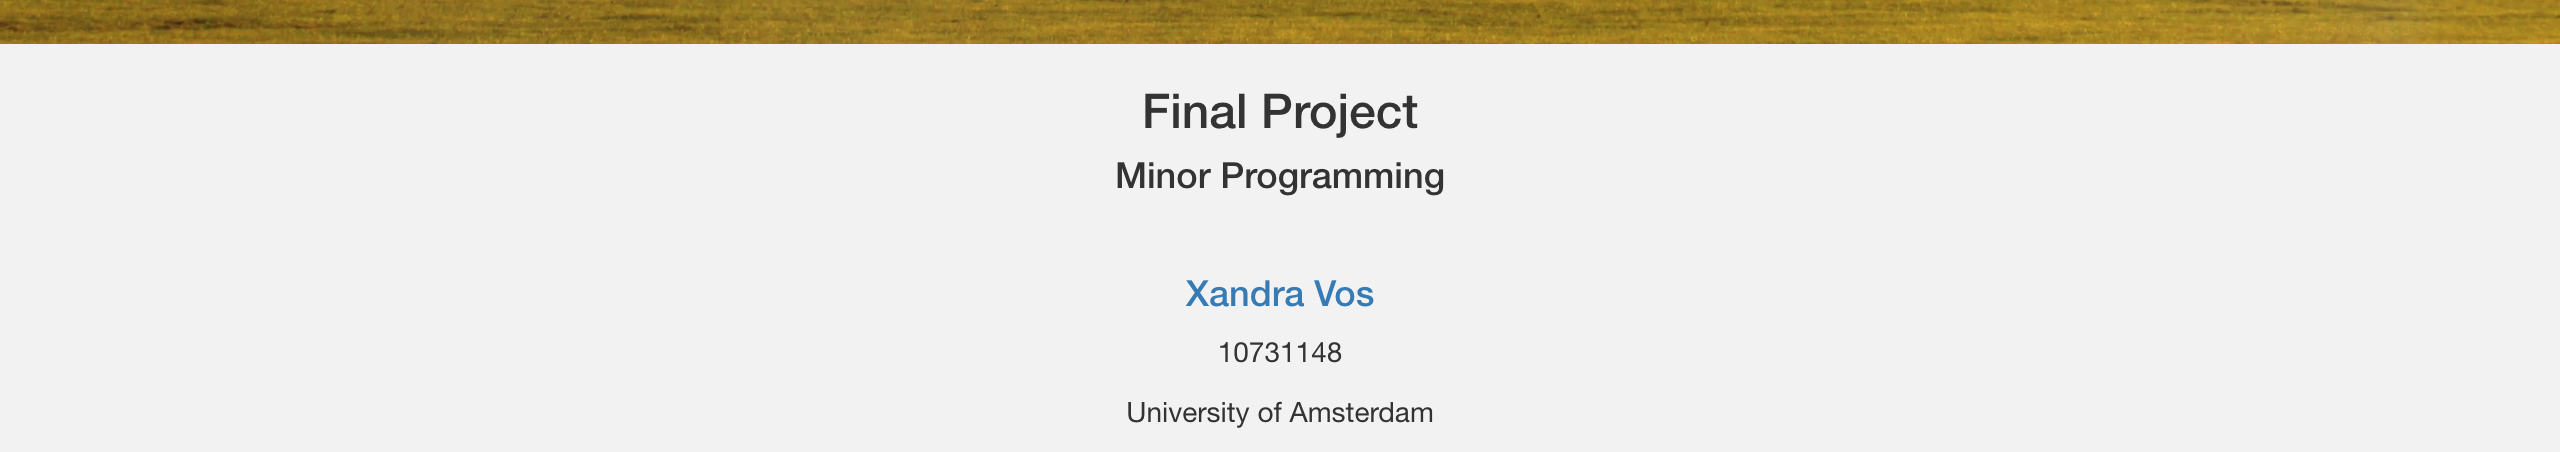
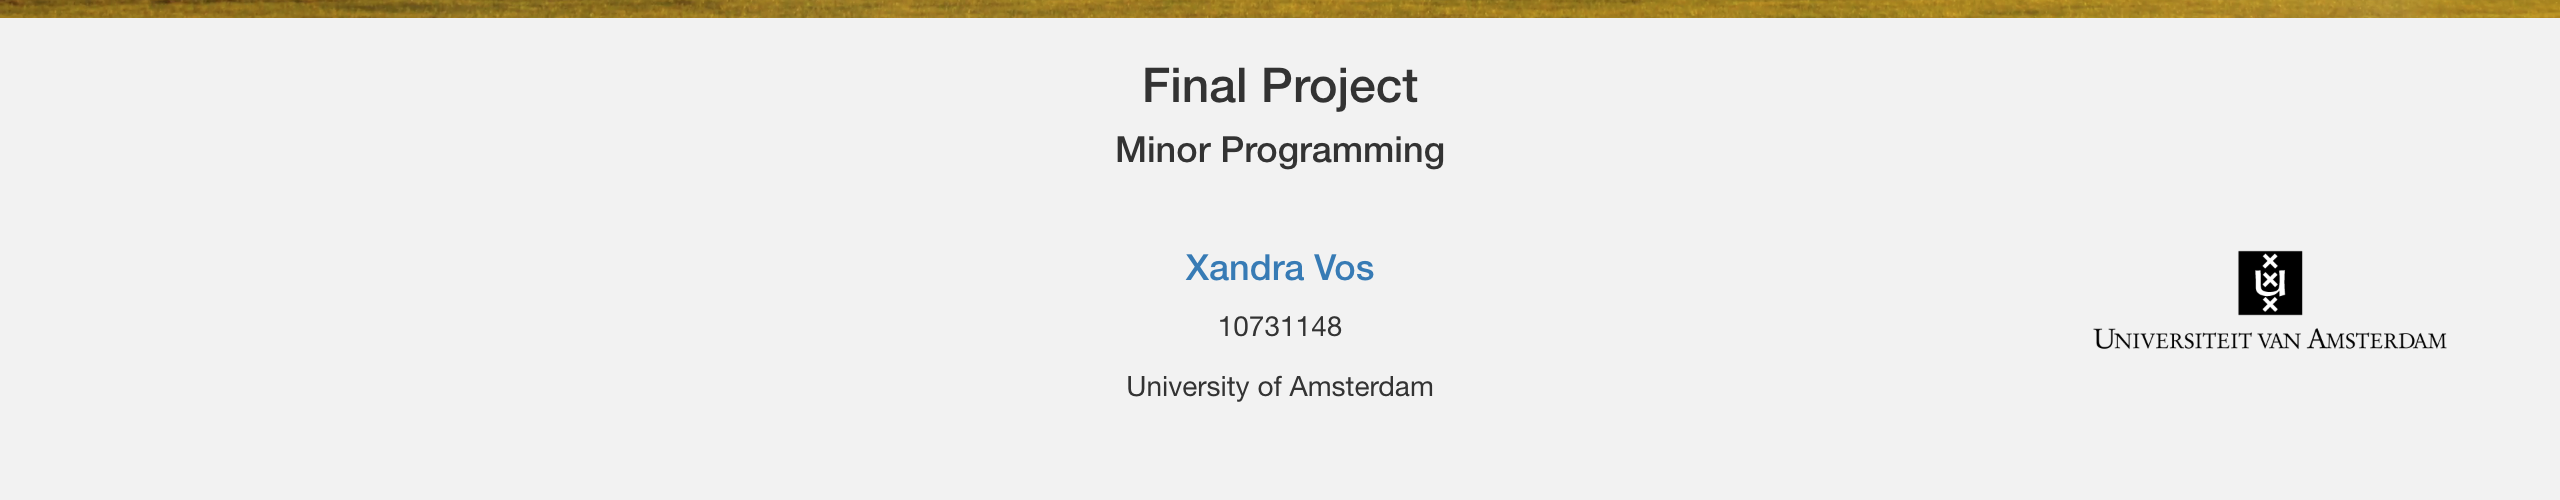
almost

diff --git a/index.html b/index.html
@@ -58,7 +58,7 @@ HTML file which holds the information for the homepage of the website.
                     <p>University of Amsterdam</p>
                 </div>
                 <div class="col-sm-4">
-                    <img src="../../doc/uva.png" width="200" height="200" id="logoUVA">
+                    <img src="/doc/uva.png" width="200" height="200" id="logoUVA">
                 </div>
             </div>
         </div>
